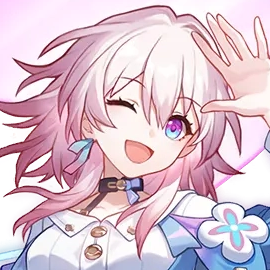
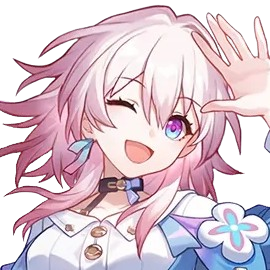
march 7th bg fixed

diff --git a/index.html b/index.html
@@ -720,7 +720,7 @@
                     <p class="version-date">2024-08-25</p>
                     <ul>
                         <li>Fixed the issue with multiple Trailblazers or March 7ths being in the same team</li>
-                        <li>Added a cool little easter egg when randomizing with no characters chosen</li>
+                        <li>Added a silly little easter egg when randomizing with no characters chosen</li>
                     </ul>
                 </div>
             </ul>
@@ -759,7 +759,7 @@
                 <p>2024-08-25</p>
                 <ul>
                     <li>Fixed the issue with multiple Trailblazers or March 7ths being in the same team</li>
-                    <li>Added a cool little easter egg when randomizing with no characters chosen</li>
+                    <li>Added a silly little easter egg when randomizing with no characters chosen</li>
                 </ul>
                 <p>2024-08-23</p>
                 <ul>
